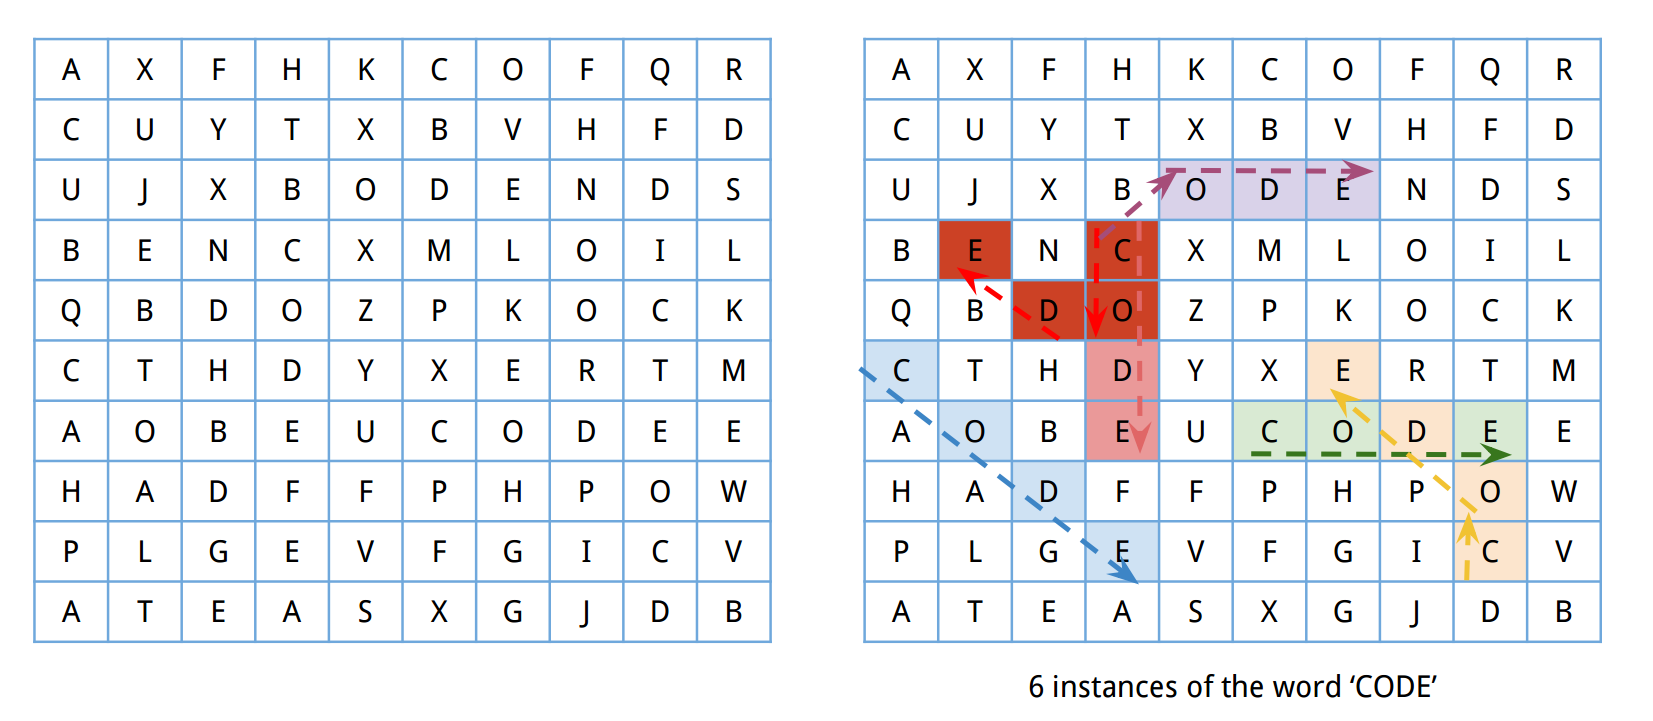
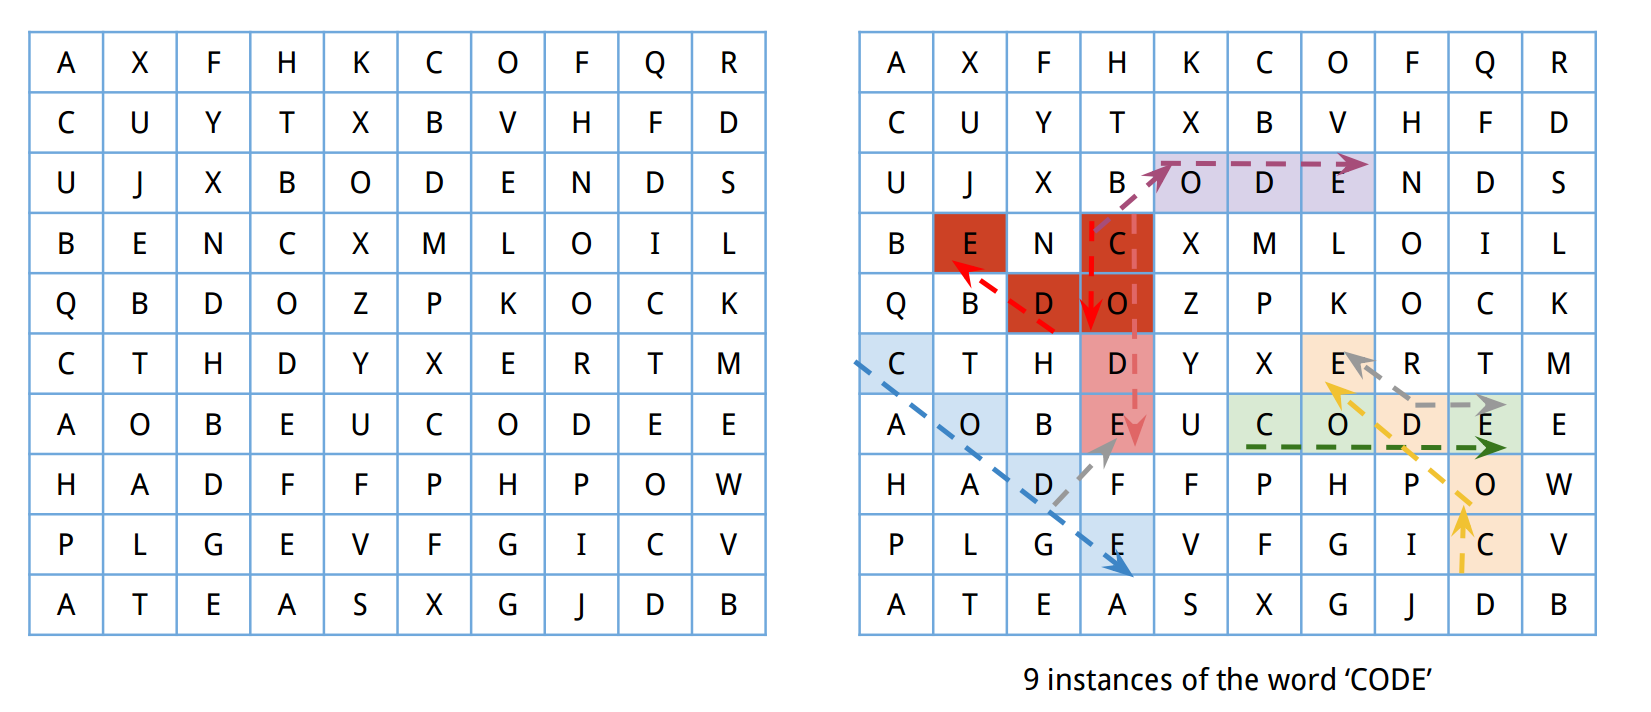
update

Changed region(s): [[0.4942, 0.0309, 0.9885, 0.8961], [0.0, 0.0309, 0.4634, 0.8961], [0.6178, 0.927, 0.8649, 0.9888]]

diff --git a/doc/problems/set_0/014/code/word_search.go b/doc/problems/set_0/014/code/word_search.go
@@ -1,5 +1,10 @@
 package main
 
+import (
+	"fmt"
+	"strings"
+)
+
 func make2DSlice(row, column int) [][]string {
 	mat := make([][]string, row)
 	// for i := 0; i < row; i++ {
@@ -9,28 +14,100 @@ func make2DSlice(row, column int) [][]string {
 	return mat
 }
 
-var board [][]string = [][]string{
-	{"A", "X", "F", "H", "K", "C", "O", "F", "Q", "R"},
-	{"C", "U", "Y", "T", "X", "B", "V", "H", "F", "D"},
-	{"U", "J", "X", "B", "O", "D", "E", "N", "D", "S"},
-	{"B", "E", "N", "C", "X", "M", "L", "O", "I", "L"},
-	{"Q", "B", "D", "O", "Z", "P", "K", "O", "C", "K"},
-	{"C", "T", "H", "D", "Y", "X", "E", "R", "T", "M"},
-	{"A", "O", "B", "E", "U", "C", "O", "D", "E", "E"},
-	{"H", "A", "D", "F", "F", "P", "H", "P", "O", "W"},
-	{"P", "L", "G", "E", "V", "F", "G", "I", "C", "V"},
-	{"A", "T", "E", "A", "S", "X", "G", "J", "D", "B"},
+var (
+	board = [][]string{
+		{"A", "X", "F", "H", "K", "C", "O", "F", "Q", "R"},
+		{"C", "U", "Y", "T", "X", "B", "V", "H", "F", "D"},
+		{"U", "J", "X", "B", "O", "D", "E", "N", "D", "S"},
+		{"B", "E", "N", "C", "X", "M", "L", "O", "I", "L"},
+		{"Q", "B", "D", "O", "Z", "P", "K", "O", "C", "K"},
+		{"C", "T", "H", "D", "Y", "X", "E", "R", "T", "M"},
+		{"A", "O", "B", "E", "U", "C", "O", "D", "E", "E"},
+		{"H", "A", "D", "F", "F", "P", "H", "P", "O", "W"},
+		{"P", "L", "G", "E", "V", "F", "G", "I", "C", "V"},
+		{"A", "T", "E", "A", "S", "X", "G", "J", "D", "B"},
+	}
+
+	target = []string{"C", "O", "D", "E"}
+)
+
+// each recursion needs its own storage, so we need to
+// make a copy of it.
+func copyMap(m map[string]string) map[string]string {
+	n := make(map[string]string)
+	for k, v := range m {
+		n[k] = v
+	}
+	return n
 }
 
-func search(target []string, letterIdx string, row, col int, found map[string]bool) {
+func search(
+	target []string,
+	letterIdx int,
+	row int,
+	col int,
+	subPath map[string]string,
+	found map[string]bool,
+) {
 	// base case
-	if row > len(board)-1 || col > len(board[0])-1 {
+	if row < 0 || col < 0 || row > len(board)-1 || col > len(board[0])-1 {
 		// not valid move
 		// because exceeding the slice range
 		return
 	}
+
+	targetLetter := target[letterIdx]
+	currentLetter := board[row][col]
+	if targetLetter != currentLetter {
+		return
+	}
+	letterIdx++
+	subPath[currentLetter] = fmt.Sprintf("%d,%d", row, col)
+
+	// found the path
+	lastTargetLetter := target[len(target)-1]
+	if targetLetter == lastTargetLetter && len(target) == len(subPath) {
+		ts := []string{}
+		for _, k := range target {
+			ts = append(ts, subPath[k])
+		}
+		found[strings.Join(ts, "->")] = true
+		return
+	}
+
+	// find the next letter
+	search(target, letterIdx, row, col-1, copyMap(subPath), found)   // left
+	search(target, letterIdx, row, col+1, copyMap(subPath), found)   // right
+	search(target, letterIdx, row-1, col, copyMap(subPath), found)   // up
+	search(target, letterIdx, row+1, col, copyMap(subPath), found)   // down
+	search(target, letterIdx, row-1, col-1, copyMap(subPath), found) // diagonal
+	search(target, letterIdx, row+1, col+1, copyMap(subPath), found) // diagonal
+	search(target, letterIdx, row-1, col+1, copyMap(subPath), found) // diagonal
+	search(target, letterIdx, row+1, col-1, copyMap(subPath), found) // diagonal
+	return
 }
 
 func main() {
-
+	found := make(map[string]bool)
+	for row, val := range board {
+		for col := range val {
+			subPath := make(map[string]string)
+			search(target, 0, row, col, subPath, found)
+		}
+	}
+	for path := range found {
+		fmt.Println(path)
+	}
 }
+
+/*
+3,3->2,4->2,5->2,6
+5,0->6,1->7,2->8,3
+6,5->6,6->6,7->6,8
+6,5->6,6->6,7->5,6
+8,8->7,8->6,7->6,8
+8,8->7,8->6,7->5,6
+3,3->4,3->4,2->3,1
+5,0->6,1->7,2->6,3
+3,3->4,3->5,3->6,3
+*/

diff --git a/doc/problems/set_0/014/code/word_search.cpp b/doc/problems/set_0/014/code/word_search.cpp
@@ -13,3 +13,5 @@ char[][] board = {
 	{'P', 'L', 'G', 'E', 'V', 'F', 'G', 'I', 'C', 'V'},
 	{'A', 'T', 'E', 'A', 'S', 'X', 'G', 'J', 'D', 'B'},
 };
+
+char[] target = {'C', 'O', 'D', 'E'};

diff --git a/doc/problems/set_0/014/README.md b/doc/problems/set_0/014/README.md
@@ -11,18 +11,22 @@ Find all instances of the word `CODE` in the board:
 
 ```go
 // Go
-var board [][]string = [][]string{
-	{"A", "X", "F", "H", "K", "C", "O", "F", "Q", "R"},
-	{"C", "U", "Y", "T", "X", "B", "V", "H", "F", "D"},
-	{"U", "J", "X", "B", "O", "D", "E", "N", "D", "S"},
-	{"B", "E", "N", "C", "X", "M", "L", "O", "I", "L"},
-	{"Q", "B", "D", "O", "Z", "P", "K", "O", "C", "K"},
-	{"C", "T", "H", "D", "Y", "X", "E", "R", "T", "M"},
-	{"A", "O", "B", "E", "U", "C", "O", "D", "E", "E"},
-	{"H", "A", "D", "F", "F", "P", "H", "P", "O", "W"},
-	{"P", "L", "G", "E", "V", "F", "G", "I", "C", "V"},
-	{"A", "T", "E", "A", "S", "X", "G", "J", "D", "B"},
-}
+var (
+	board = [][]string{
+		{"A", "X", "F", "H", "K", "C", "O", "F", "Q", "R"},
+		{"C", "U", "Y", "T", "X", "B", "V", "H", "F", "D"},
+		{"U", "J", "X", "B", "O", "D", "E", "N", "D", "S"},
+		{"B", "E", "N", "C", "X", "M", "L", "O", "I", "L"},
+		{"Q", "B", "D", "O", "Z", "P", "K", "O", "C", "K"},
+		{"C", "T", "H", "D", "Y", "X", "E", "R", "T", "M"},
+		{"A", "O", "B", "E", "U", "C", "O", "D", "E", "E"},
+		{"H", "A", "D", "F", "F", "P", "H", "P", "O", "W"},
+		{"P", "L", "G", "E", "V", "F", "G", "I", "C", "V"},
+		{"A", "T", "E", "A", "S", "X", "G", "J", "D", "B"},
+	}
+
+	target = []string{"C", "O", "D", "E"}
+)
 
 ```
 
@@ -41,10 +45,12 @@ char[][] board = {
 	{'A', 'T', 'E', 'A', 'S', 'X', 'G', 'J', 'D', 'B'},
 };
 
+char[] target = {'C', 'O', 'D', 'E'};
+
 ```
 
 <br>
-**Output:** 6 
+**Output:** 9 
 
 <br><br><br>
 - [Reference](#reference)
@@ -108,15 +114,16 @@ see if we can do better.
 2. Letter index in the target slice. 
 3. Position on board to search for the target letter,
    to tell which direction to move.
-4. You want to store previously found instances (full letters),
-   so not to overcount.
+4. Storage for previously found paths for backtracking.
+5. Storage for paths that have all target letters.
 
 <br>
 **THIRD**. Create a two dimensional array with values from the board.
 Start with the *first letter as a target letter*, at the position
 *(0, 0)* in a two dimensional array. And if it *finds the target letter*,
 call *recursive* function *onto other directions*. Otherwise, keep moving from
-*left-top to right-bottom* until it reaches the end *(N, N)*.
+*left-top to right-bottom* until it reaches the end *(N, N)*. After iteration,
+count the paths from the map.
 
 [↑ top](#problem)
 <br><br><br><br>
@@ -128,6 +135,119 @@ call *recursive* function *onto other directions*. Otherwise, keep moving from
 #### Solution #1, in Go
 
 ```go
+package main
+
+import (
+	"fmt"
+	"strings"
+)
+
+func make2DSlice(row, column int) [][]string {
+	mat := make([][]string, row)
+	// for i := 0; i < row; i++ {
+	for i := range mat {
+		mat[i] = make([]string, column)
+	}
+	return mat
+}
+
+var (
+	board = [][]string{
+		{"A", "X", "F", "H", "K", "C", "O", "F", "Q", "R"},
+		{"C", "U", "Y", "T", "X", "B", "V", "H", "F", "D"},
+		{"U", "J", "X", "B", "O", "D", "E", "N", "D", "S"},
+		{"B", "E", "N", "C", "X", "M", "L", "O", "I", "L"},
+		{"Q", "B", "D", "O", "Z", "P", "K", "O", "C", "K"},
+		{"C", "T", "H", "D", "Y", "X", "E", "R", "T", "M"},
+		{"A", "O", "B", "E", "U", "C", "O", "D", "E", "E"},
+		{"H", "A", "D", "F", "F", "P", "H", "P", "O", "W"},
+		{"P", "L", "G", "E", "V", "F", "G", "I", "C", "V"},
+		{"A", "T", "E", "A", "S", "X", "G", "J", "D", "B"},
+	}
+
+	target = []string{"C", "O", "D", "E"}
+)
+
+// each recursion needs its own storage, so we need to
+// make a copy of it.
+func copyMap(m map[string]string) map[string]string {
+	n := make(map[string]string)
+	for k, v := range m {
+		n[k] = v
+	}
+	return n
+}
+
+func search(
+	target []string,
+	letterIdx int,
+	row int,
+	col int,
+	subPath map[string]string,
+	found map[string]bool,
+) {
+	// base case
+	if row < 0 || col < 0 || row > len(board)-1 || col > len(board[0])-1 {
+		// not valid move
+		// because exceeding the slice range
+		return
+	}
+
+	targetLetter := target[letterIdx]
+	currentLetter := board[row][col]
+	if targetLetter != currentLetter {
+		return
+	}
+	letterIdx++
+	subPath[currentLetter] = fmt.Sprintf("%d,%d", row, col)
+
+	// found the path
+	lastTargetLetter := target[len(target)-1]
+	if targetLetter == lastTargetLetter && len(target) == len(subPath) {
+		ts := []string{}
+		for _, k := range target {
+			ts = append(ts, subPath[k])
+		}
+		found[strings.Join(ts, "->")] = true
+		return
+	}
+
+	// find the next letter
+	search(target, letterIdx, row, col-1, copyMap(subPath), found)   // left
+	search(target, letterIdx, row, col+1, copyMap(subPath), found)   // right
+	search(target, letterIdx, row-1, col, copyMap(subPath), found)   // up
+	search(target, letterIdx, row+1, col, copyMap(subPath), found)   // down
+	search(target, letterIdx, row-1, col-1, copyMap(subPath), found) // diagonal
+	search(target, letterIdx, row+1, col+1, copyMap(subPath), found) // diagonal
+	search(target, letterIdx, row-1, col+1, copyMap(subPath), found) // diagonal
+	search(target, letterIdx, row+1, col-1, copyMap(subPath), found) // diagonal
+	return
+}
+
+func main() {
+	found := make(map[string]bool)
+	for row, val := range board {
+		for col := range val {
+			subPath := make(map[string]string)
+			search(target, 0, row, col, subPath, found)
+		}
+	}
+	for path := range found {
+		fmt.Println(path)
+	}
+}
+
+/*
+3,3->2,4->2,5->2,6
+5,0->6,1->7,2->8,3
+6,5->6,6->6,7->6,8
+6,5->6,6->6,7->5,6
+8,8->7,8->6,7->6,8
+8,8->7,8->6,7->5,6
+3,3->4,3->4,2->3,1
+5,0->6,1->7,2->6,3
+3,3->4,3->5,3->6,3
+*/
 
 ```
 
